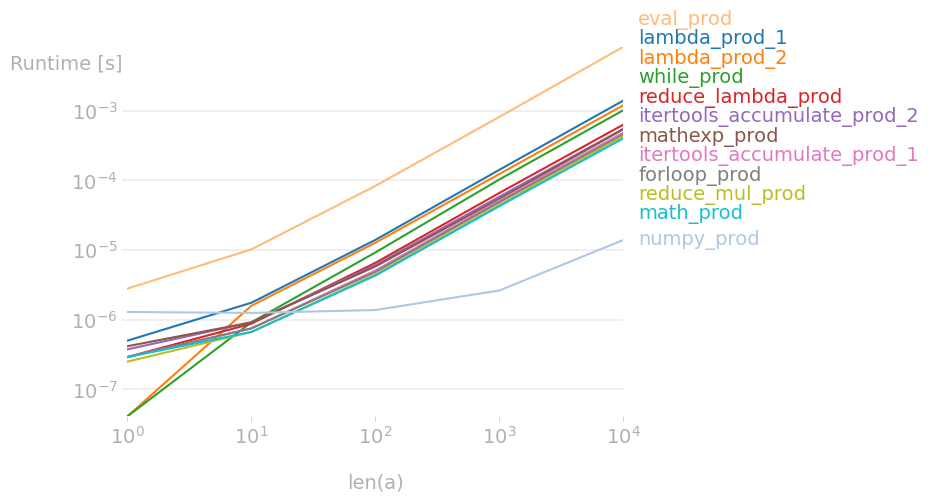
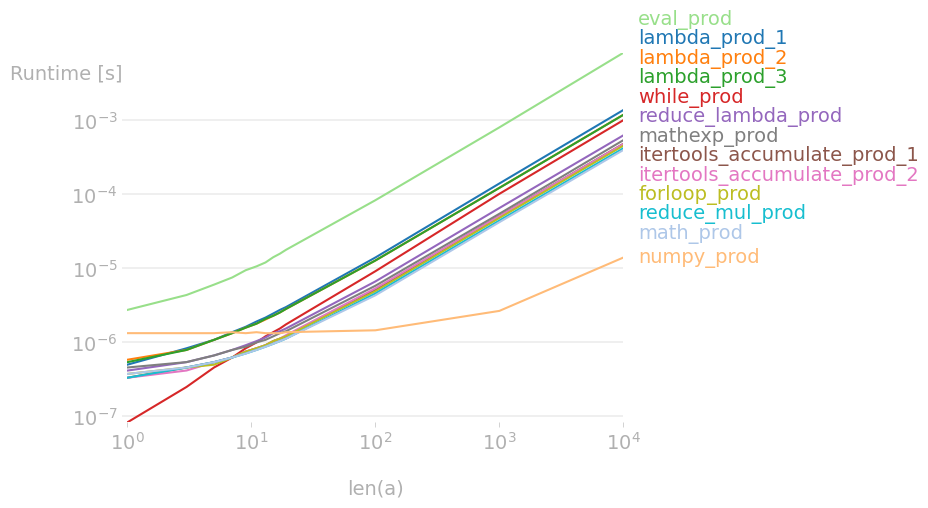
update

diff --git a/product_test.py b/product_test.py
@@ -3,6 +3,9 @@ https://stackoverflow.com/questions/2104782/returning-the-product-of-a-list
 
 https://stackoverflow.com/a/55297341/3057377
 
+# Empty product
+https://en.wikipedia.org/wiki/Empty_product
+
 """
 
 import math
@@ -17,6 +20,7 @@ import perfplot
 
 def sanity_checks(lst):
     """___"""
+    return False
     _l = len(lst)
     if _l == 0:
         ans = None
@@ -105,15 +109,6 @@ def while_prod(lst):
     return ans
 
 
-def lambda_prod_0(lst):
-    """Fail if list is empty."""
-    if not (ans := sanity_checks(lst)) is False:
-        return ans
-    prod = lambda l: l[0] if len(l) == 1 else l[0] * prod(l[1:])
-    ans = prod(lst)
-    return ans
-
-
 def lambda_prod_1(lst):
     """Fail if list is empty."""
     if not (ans := sanity_checks(lst)) is False:
@@ -123,6 +118,14 @@ def lambda_prod_1(lst):
 
 
 def lambda_prod_2(lst):
+    """Fail if list is empty."""
+    if not (ans := sanity_checks(lst)) is False:
+        return ans
+    ans = (lambda lst, j=1: [j := (lambda i: i * j)(i) for i in lst][-1])(lst)
+    return ans
+
+
+def lambda_prod_3(lst):
     """Fail if list is empty."""
     if not (ans := sanity_checks(lst)) is False:
         return ans
@@ -145,9 +148,9 @@ if __name__ == "__main__":
     b = perfplot.bench(
         setup=np.random.rand,
         kernels=[
-            lambda_prod_0,
             lambda_prod_1,
             lambda_prod_2,
+            lambda_prod_3,
             while_prod,
             reduce_lambda_prod,
             itertools_accumulate_prod_1,
@@ -159,8 +162,14 @@ if __name__ == "__main__":
             numpy_prod,
             eval_prod,
         ],
-        n_range=[10**k for k in range(0, exp_max + 1)],
-        xlabel="len(a)",
+        # n_range=[10**k for k in range(0, exp_max + 1)],
+        # n_range=[i * 2 - 1 for i in range(1, 11)]
+        # + [10**k for k in range(2, exp_max + 1)],
+        n_range=[1] + [i * 2 for i in range(1, 10)] + [i * 10 for i in range(2, 5)],
     )
-    b.save("out.png")
+    b.save(
+        "out.png",
+        logx=False,
+        logy=True,
+    )
     # b.show()

diff --git a/test.py b/test.py
@@ -1,0 +1,4 @@
+exp_max = 4
+
+
+[1] + [i * 2 for i in range(1, 10)] + [i * 10 for i in range(2, 11)]
